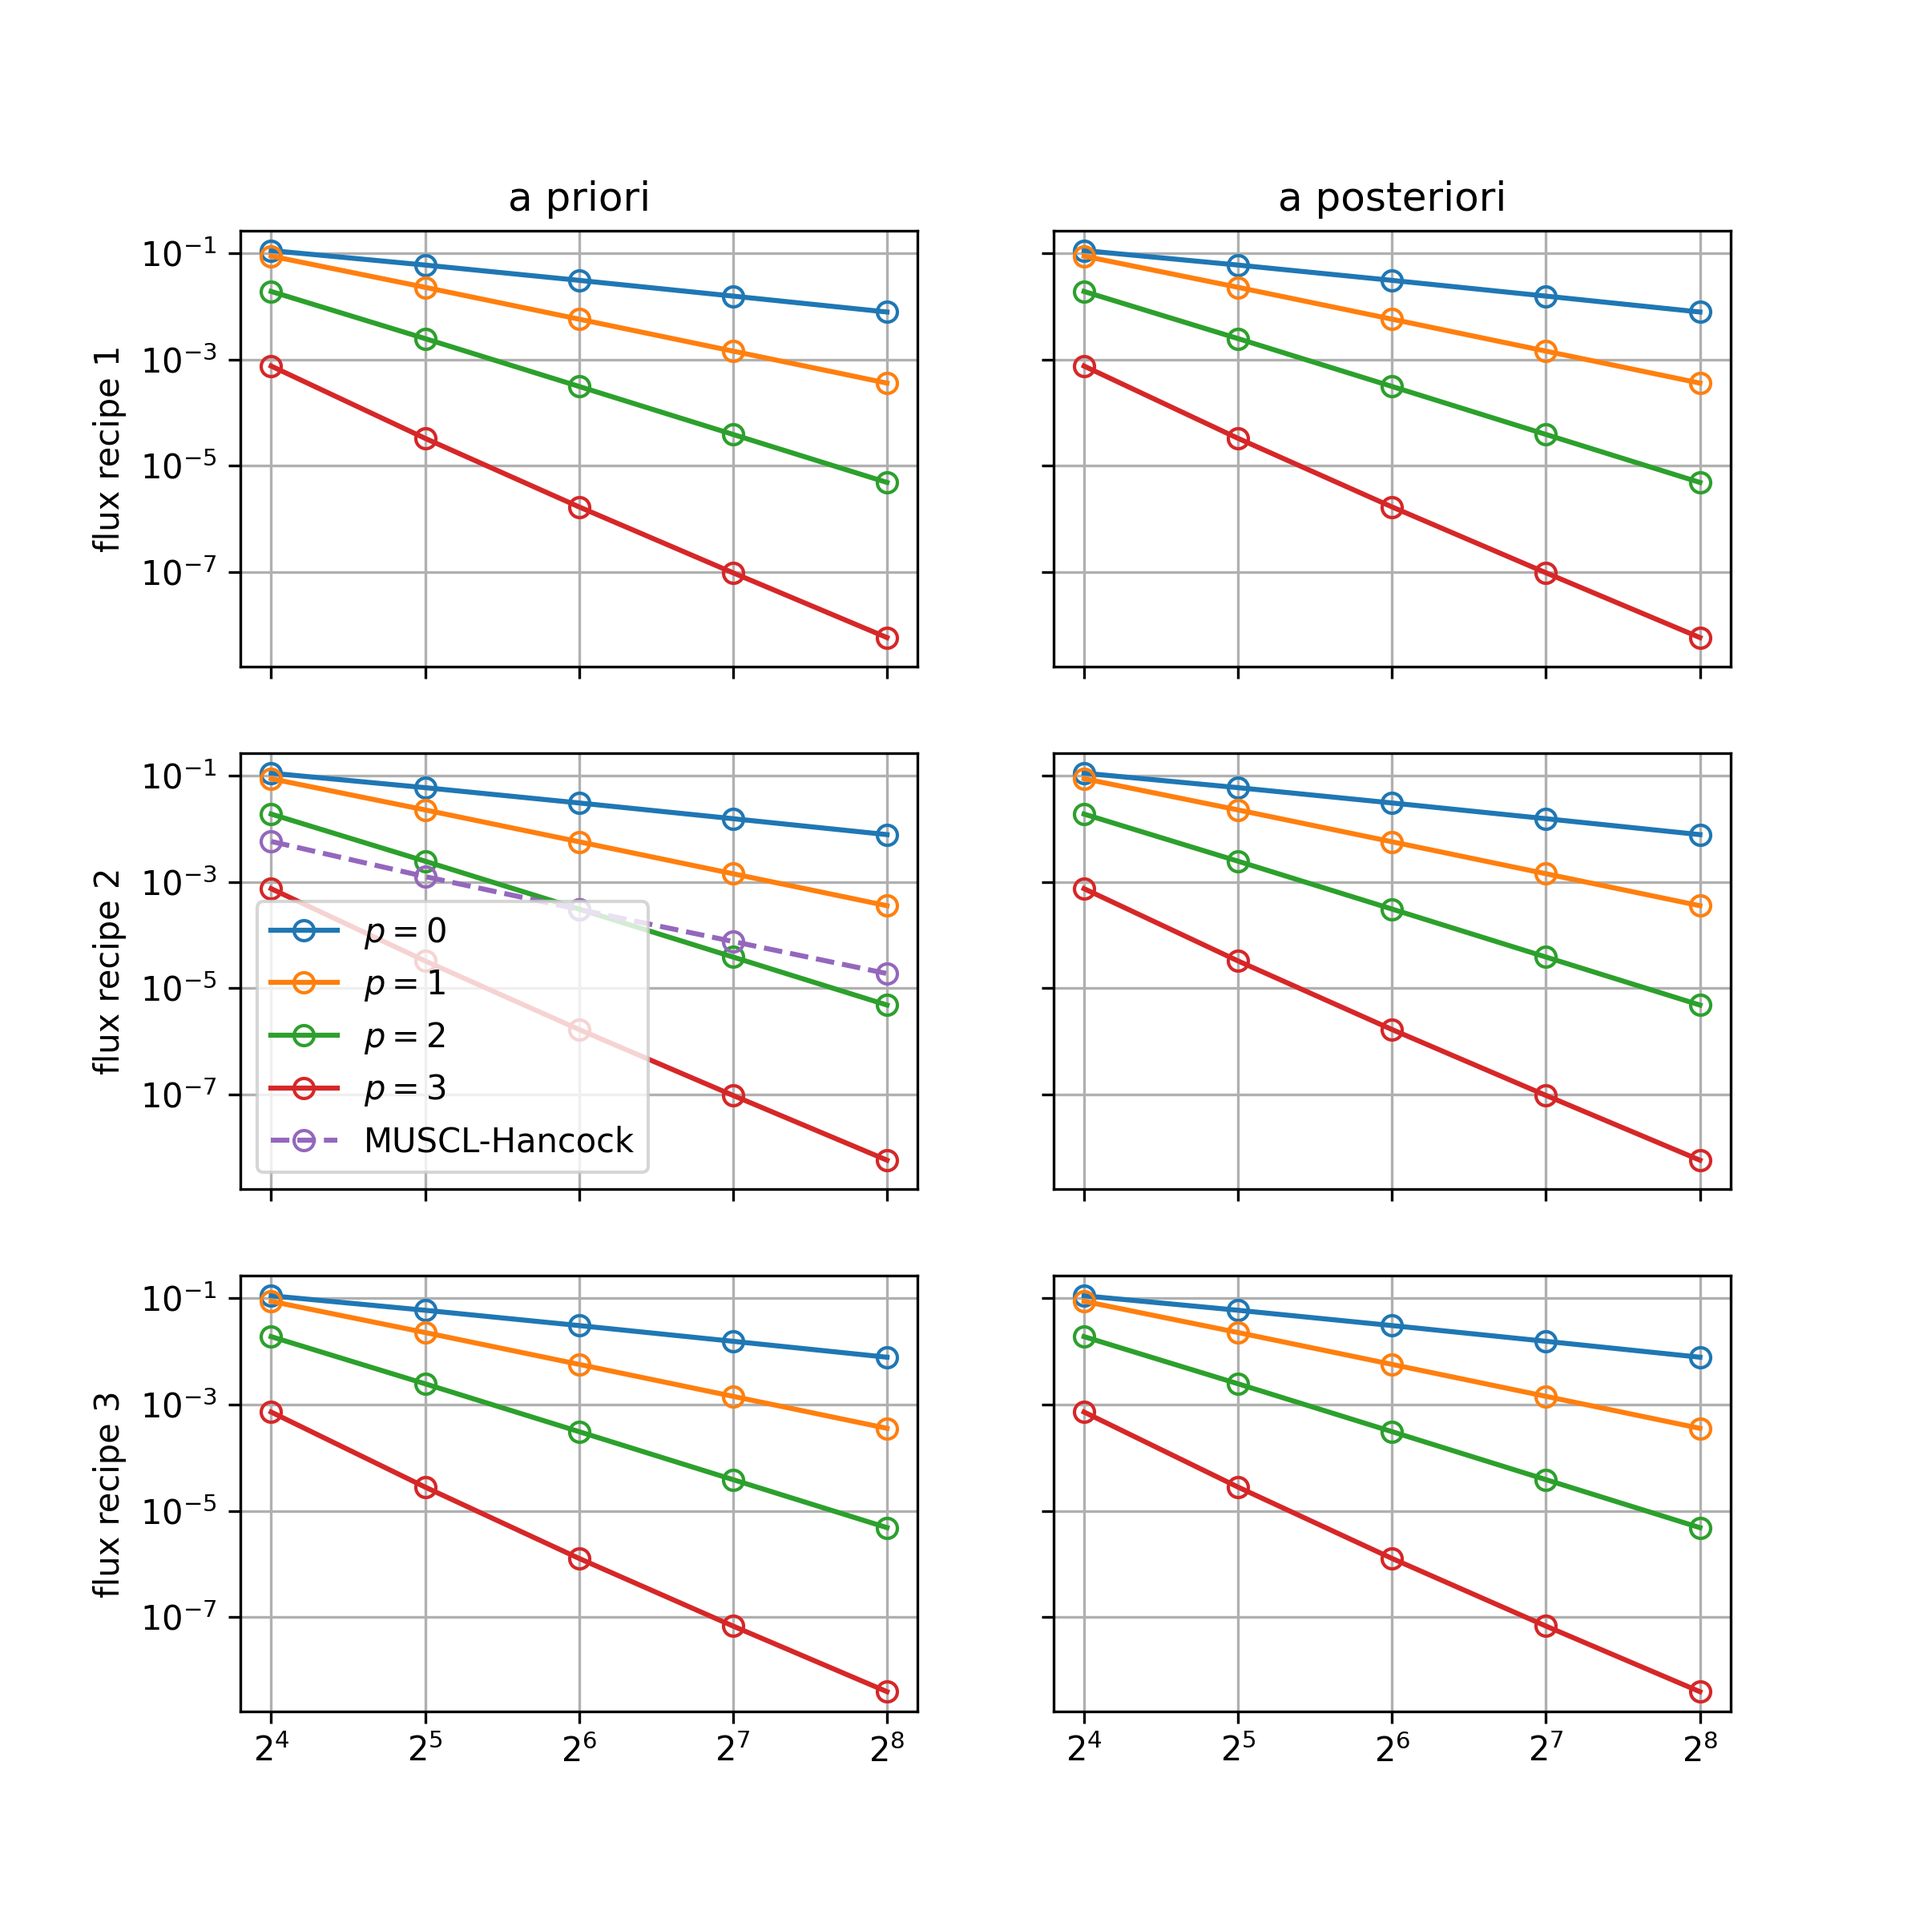
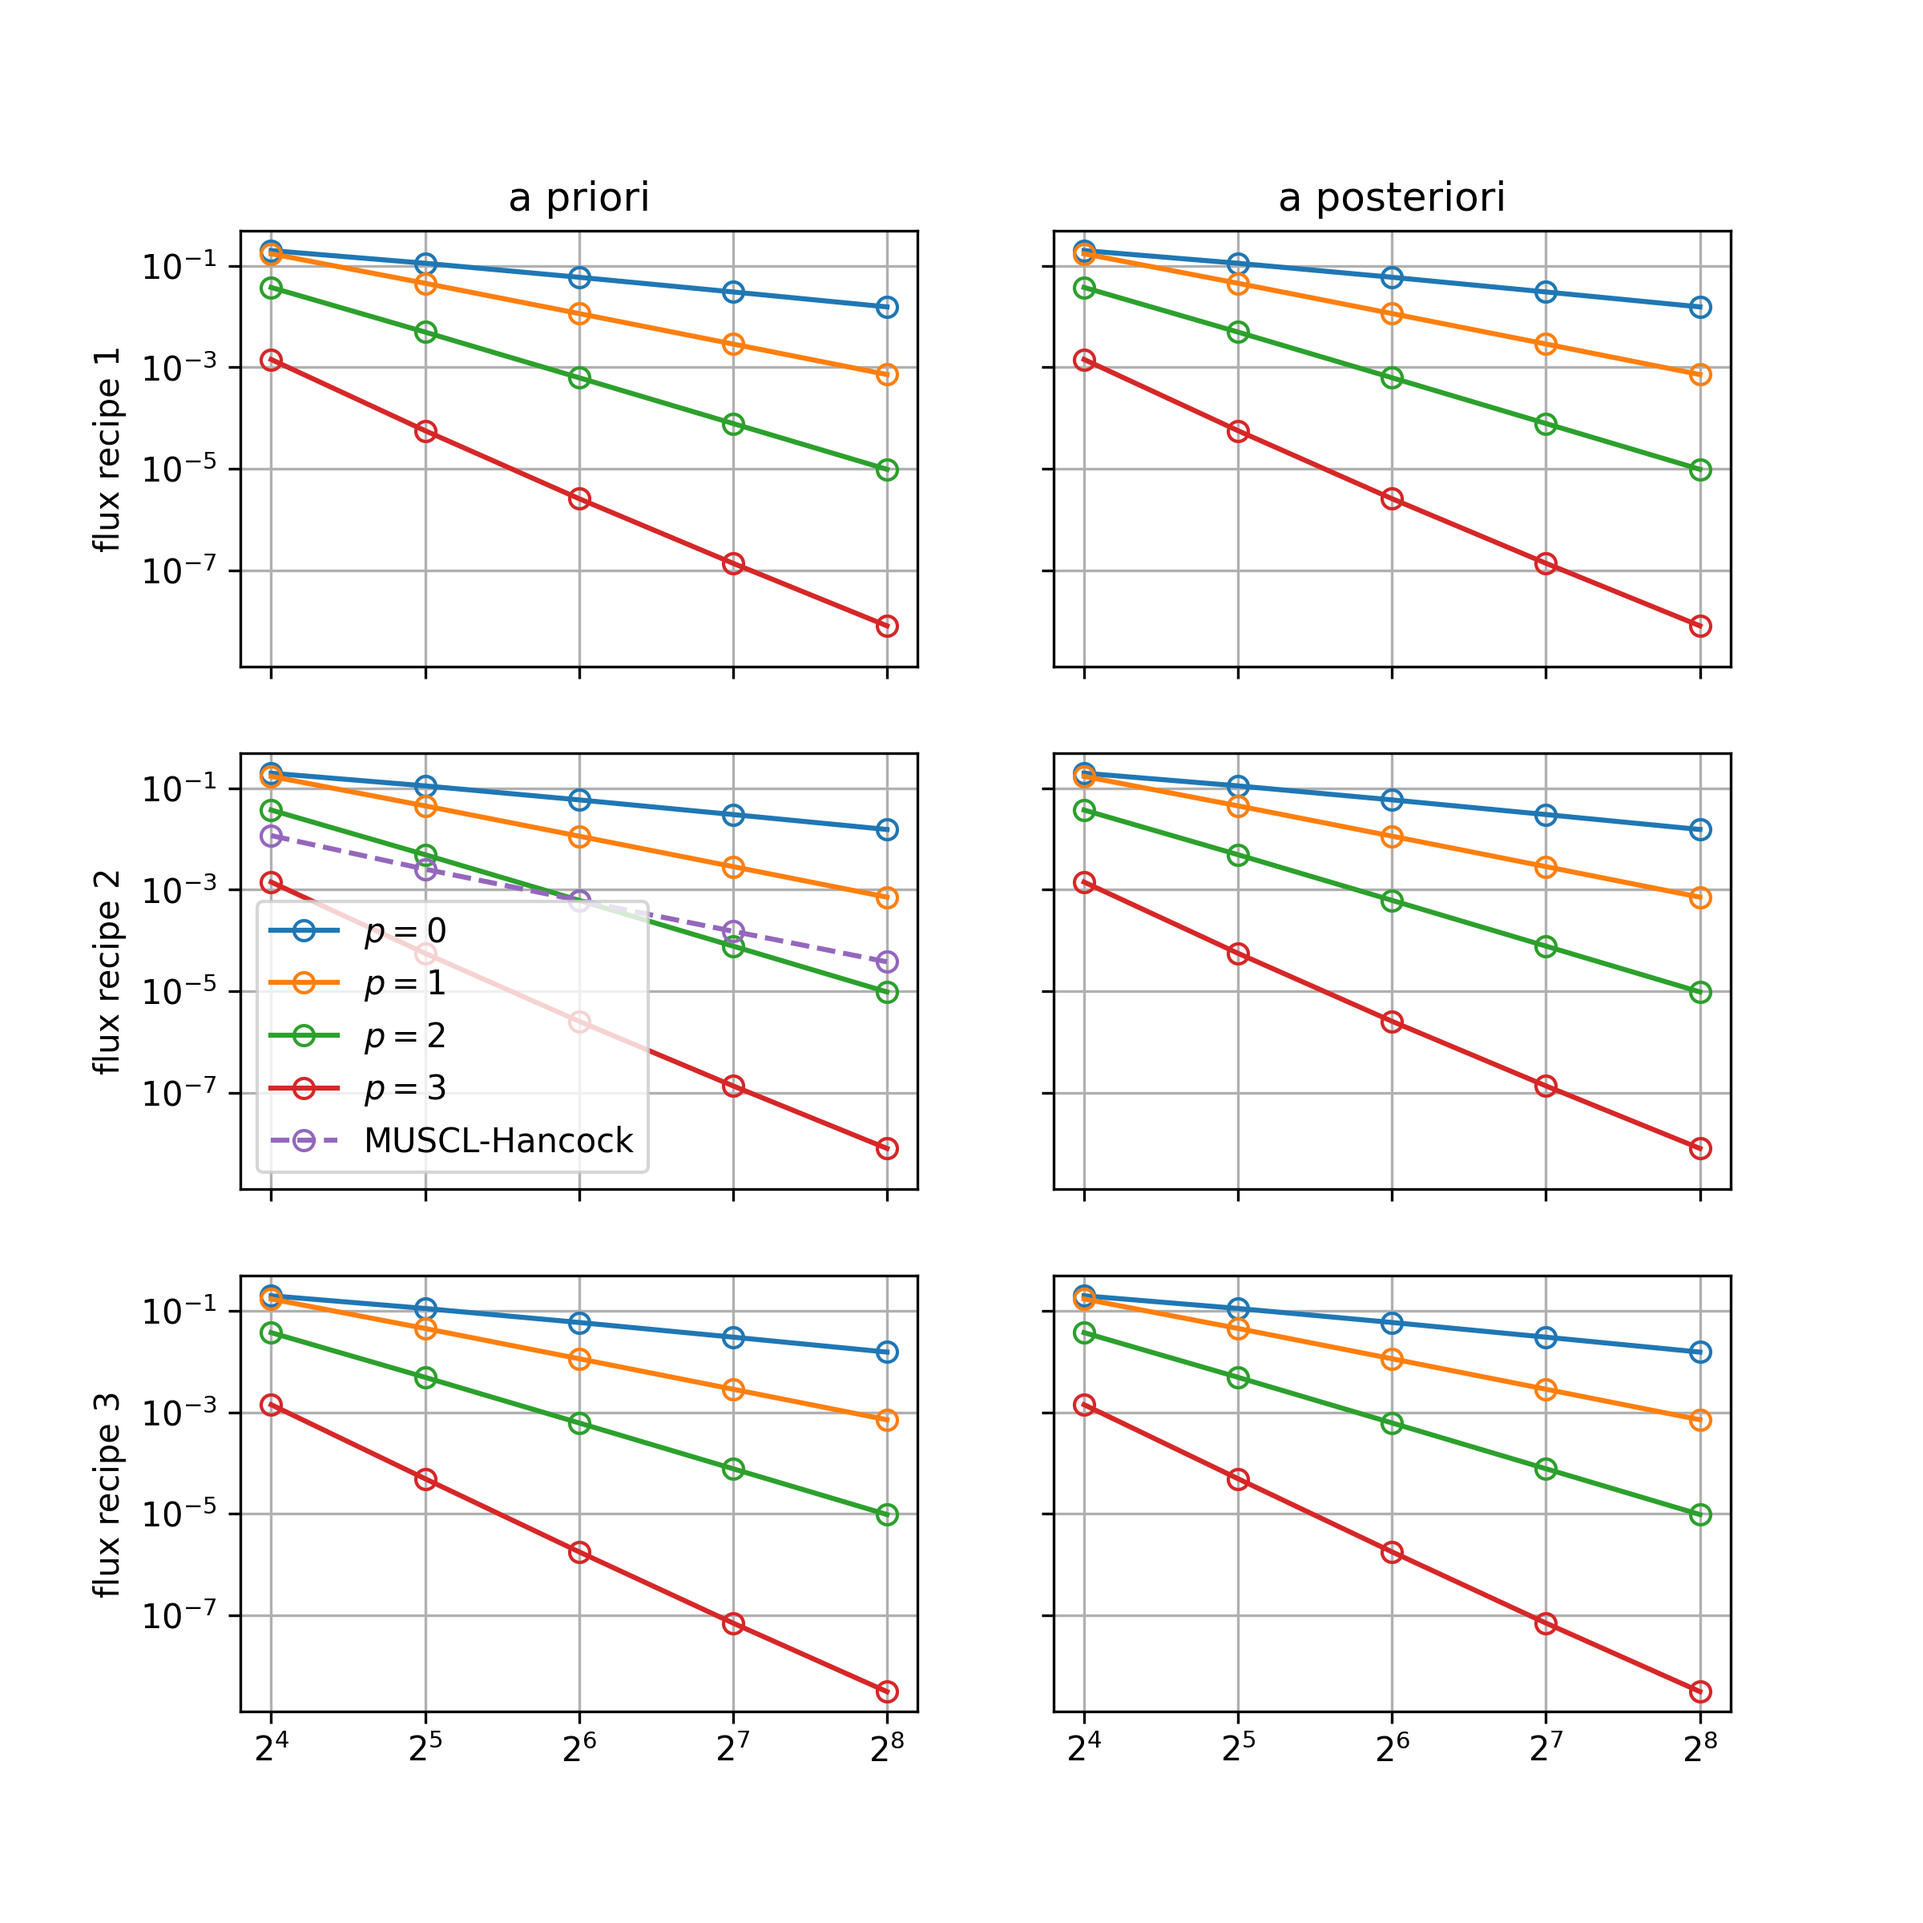
feat: showed convergence in 2D

diff --git a/benchmarks/advection_error_convergence/EulerSolver/__main__.py b/benchmarks/advection_error_convergence/EulerSolver/__main__.py
@@ -10,7 +10,7 @@ from superfv.tools.norms import linf_norm as norm
 
 # solver parameters
 OUTPUT_NAME = "benchmarks/advection_error_convergence/EulerSolver/" + "plot.png"
-DIMS = "x"
+DIMS = "xy"
 N_LIST = [16, 32, 64, 128, 256]
 P_LIST = [0, 1, 2, 3]
 Q_MAX = 3
@@ -22,6 +22,7 @@ MUSCL_CONFIG = dict(
 )
 APRIORI_CONFIG = dict(
     ZS=True,
+    include_corners=True,
     adaptive_dt=True,
     PAD={"rho": (0, None), "P": (0, None)},
     SED=True,
@@ -33,8 +34,9 @@ APOSTERIORI_CONFIG = dict(
     max_MOOD_iters=1,
     limiting_vars="actives",
     NAD=True,
+    include_corners=True,
     NAD_rtol=1e-2,
-    NAD_atol=1e-7,
+    NAD_atol=1e-2,
     SED=True,
     riemann_solver="hllc",
 )
@@ -92,10 +94,10 @@ for (i, flux_recipe), (j, (config, config_name)) in product(
 
         # run solver
         try:
-            if config_name == "muscl-hancock":
-                sim.musclhancock(1.0, log_freq=10)
+            if config.get("MUSCL", False):
+                sim.musclhancock(1.0, verbose=False)
             else:
-                sim.run(1.0, log_freq=10, q_max=Q_MAX)
+                sim.run(1.0, verbose=False, q_max=Q_MAX)
         except RuntimeError as e:
             print(f"  -> simulation failed: {e}\n")
             error = np.nan
